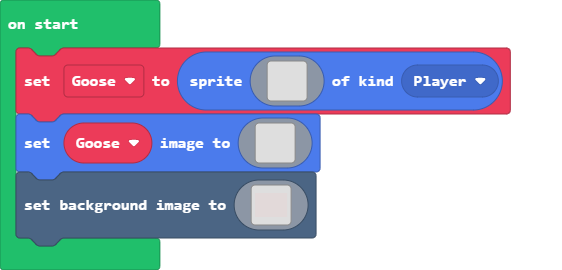
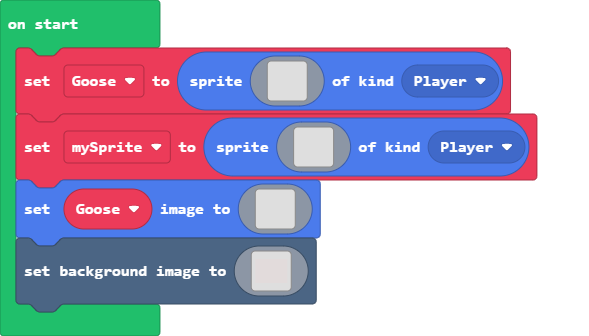
TestingCommit

diff --git a/main.ts b/main.ts
@@ -256,6 +256,24 @@ let Goose = sprites.create(img`
     ................................................................................................................................................................................................................................................................
     ................................................................................................................................................................................................................................................................
     `, SpriteKind.Player)
+let mySprite = sprites.create(img`
+    . . . . . . . . . . . . . . . . 
+    . . . . . . . . . . . . . . . . 
+    . . . . . . . . . . . . . . . . 
+    . . . . . . . . . . . . . . . . 
+    . . . . . . . . . . . . . . . . 
+    . . . . . . . . . . . . . . . . 
+    . . . . . . . . . . . . . . . . 
+    . . . . . . . . . . . . . . . . 
+    . . . . . . . . . . . . . . . . 
+    . . . . . . . . . . . . . . . . 
+    . . . . . . . . . . . . . . . . 
+    . . . . . . . . . . . . . . . . 
+    . . . . . . . . . . . . . . . . 
+    . . . . . . . . . . . . . . . . 
+    . . . . . . . . . . . . . . . . 
+    . . . . . . . . . . . . . . . . 
+    `, SpriteKind.Player)
 Goose.setImage(img`
     . . . . . . . . . . . . . . . . 
     . . . . . . . . . . . . . . . . 
